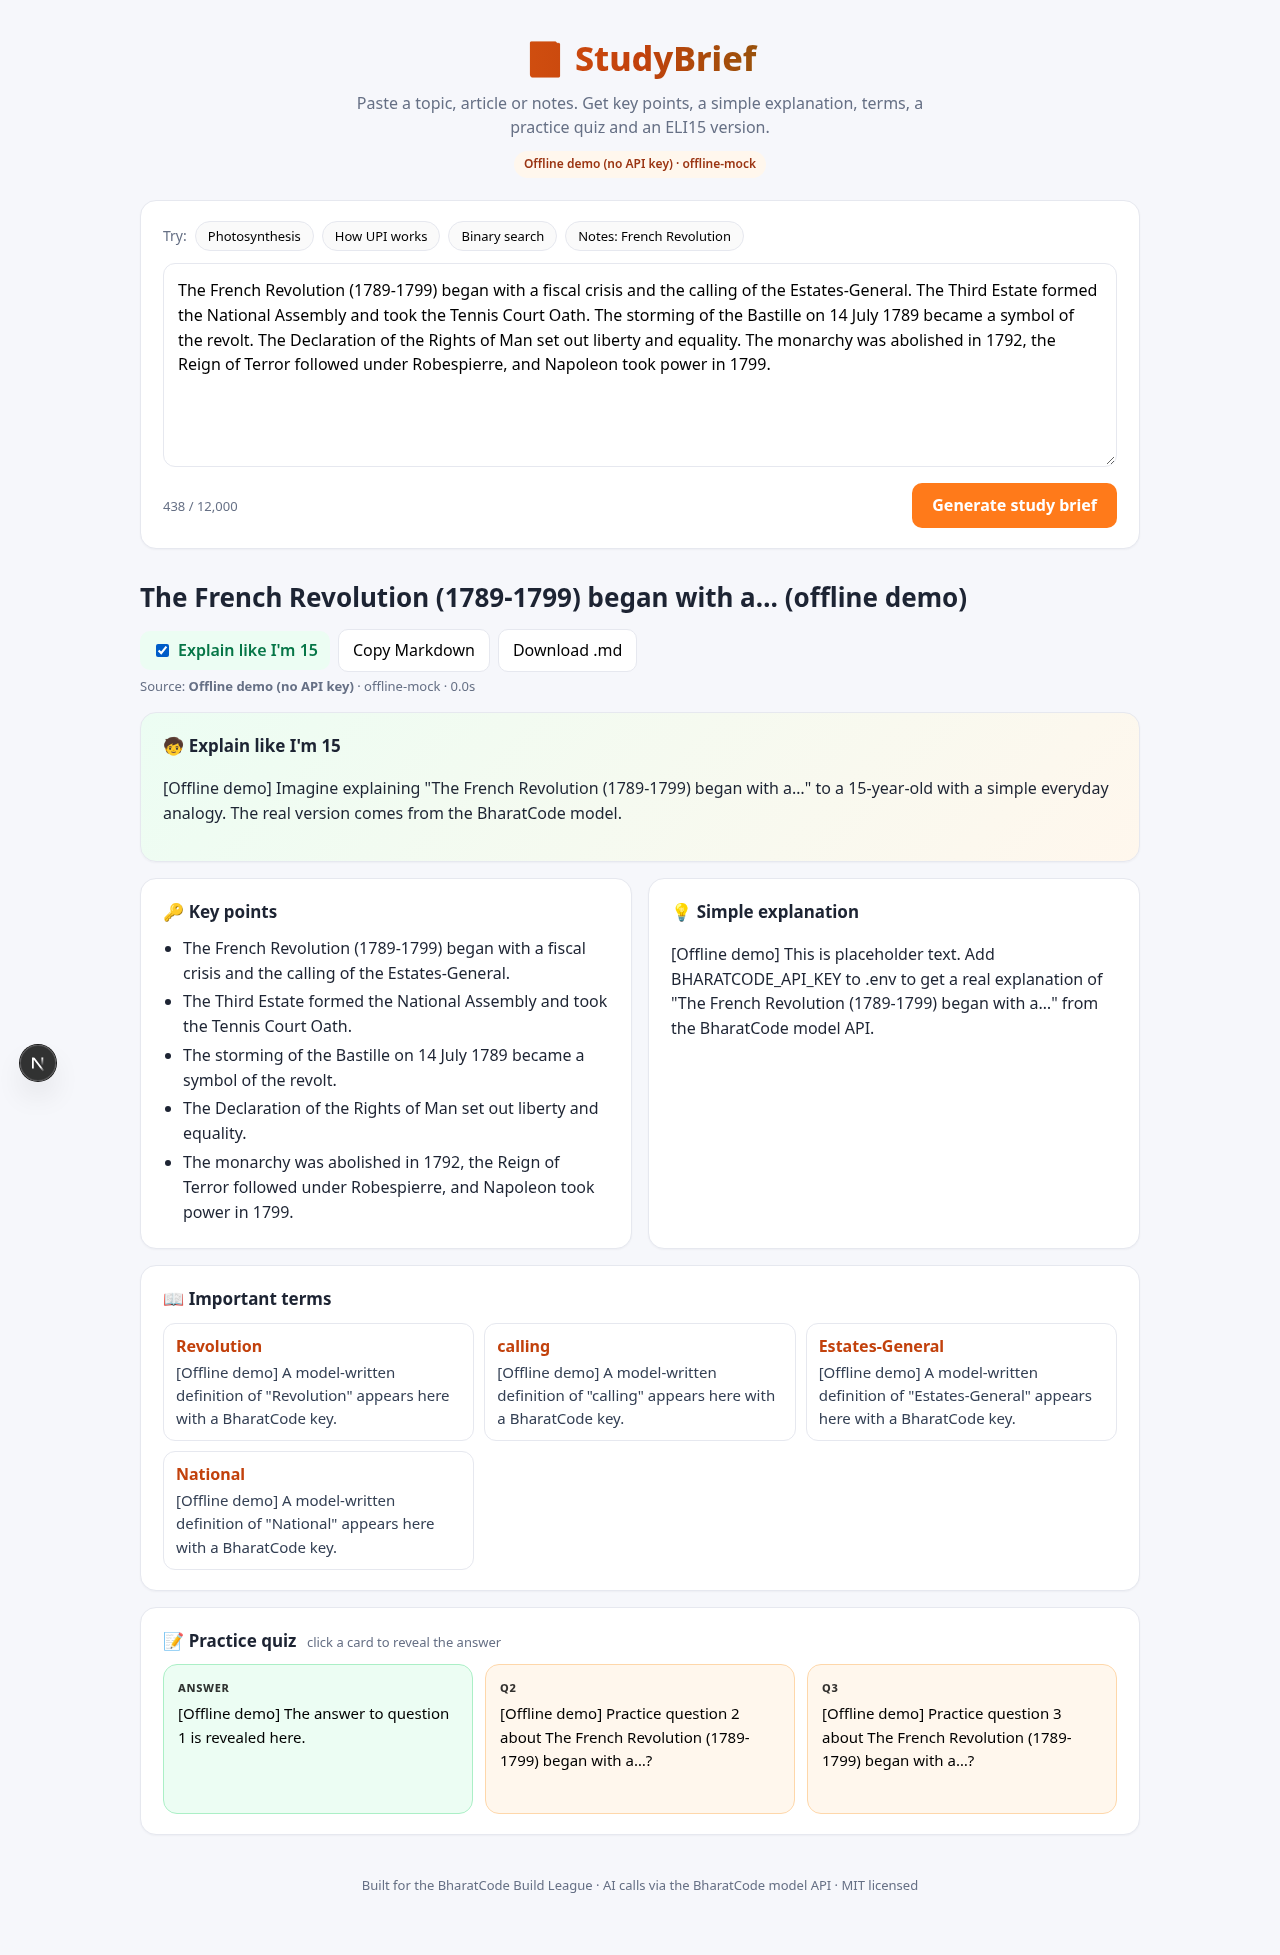
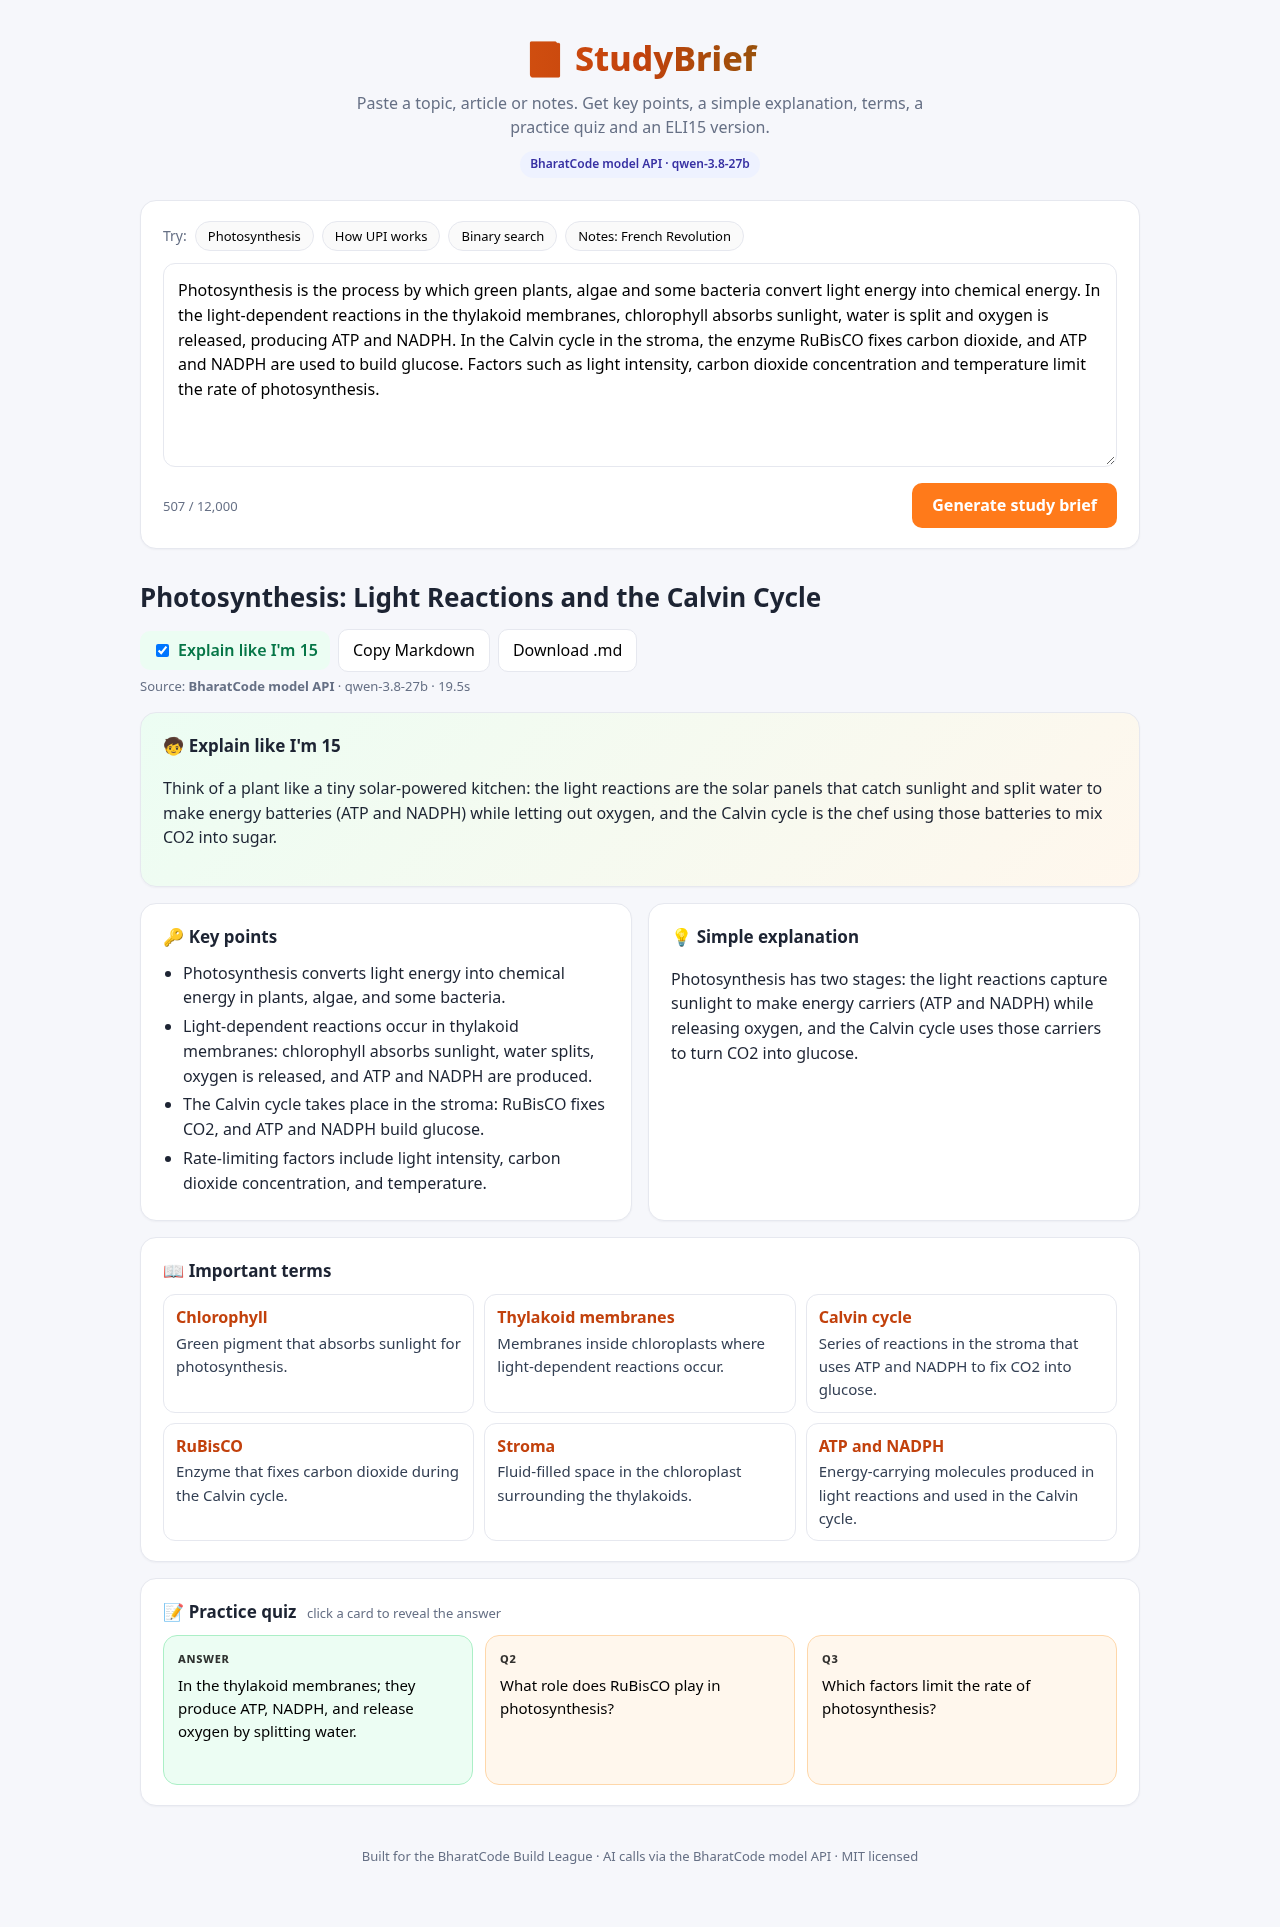
Add per-IP rate limit + concurrency guard, Vercel deploy docs, real BharatCode screenshots

diff --git a/tests/ratelimit.test.ts b/tests/ratelimit.test.ts
@@ -1,0 +1,38 @@
+import { beforeEach, describe, expect, it, vi } from "vitest";
+import { _resetRateLimit, checkRate, clientIp, release, tryAcquire } from "@/lib/ratelimit";
+
+vi.mock("@/lib/llm", () => ({
+  generateBrief: vi.fn(async () => ({ title: "t" })),
+  resolveProvider: () => null,
+  LlmError: class extends Error { status = 502; },
+}));
+
+describe("rate limit", () => {
+  beforeEach(() => _resetRateLimit());
+  it("allows 8 per window then blocks, then recovers", () => {
+    for (let i = 0; i < 8; i++) expect(checkRate("1.1.1.1", 1000).ok).toBe(true);
+    const r = checkRate("1.1.1.1", 1000);
+    expect(r.ok).toBe(false);
+    expect(checkRate("2.2.2.2", 1000).ok).toBe(true);
+    expect(checkRate("1.1.1.1", 1000 + 10 * 60 * 1000).ok).toBe(true);
+  });
+  it("reads first x-forwarded-for hop", () => {
+    expect(clientIp(new Request("http://x", { headers: { "x-forwarded-for": "9.9.9.9, 10.0.0.1" } }))).toBe("9.9.9.9");
+    expect(clientIp(new Request("http://x"))).toBe("unknown");
+  });
+  it("concurrency guard", () => {
+    expect(tryAcquire(1)).toBe(true);
+    expect(tryAcquire(1)).toBe(false);
+    release();
+    expect(tryAcquire(1)).toBe(true);
+  });
+  it("route returns 429 with friendly message after limit", async () => {
+    const { POST } = await import("@/app/api/brief/route");
+    const mk = () => new Request("http://x/api/brief", { method: "POST", headers: { "x-forwarded-for": "5.5.5.5", "content-type": "application/json" }, body: "{}" });
+    for (let i = 0; i < 8; i++) expect((await POST(mk())).status).not.toBe(429);
+    const res = await POST(mk());
+    expect(res.status).toBe(429);
+    expect(res.headers.get("Retry-After")).toBeTruthy();
+    expect((await res.json()).error).toMatch(/wait/);
+  });
+});

diff --git a/lib/ratelimit.ts b/lib/ratelimit.ts
@@ -1,0 +1,45 @@
+/**
+ * Simple in-memory, per-IP sliding-window rate limit plus a global concurrency guard.
+ * Serverless-friendly: no external store; state lives per warm instance (best effort on Vercel).
+ */
+export const RATE_LIMIT = Number(process.env.STUDYBRIEF_RATE_LIMIT ?? 8);
+export const RATE_WINDOW_MS = Number(process.env.STUDYBRIEF_RATE_WINDOW_MS ?? 10 * 60 * 1000);
+export const MAX_CONCURRENT = Number(process.env.STUDYBRIEF_MAX_CONCURRENT ?? 4);
+const MAX_TRACKED_IPS = 5000;
+
+const hits = new Map<string, number[]>();
+let inFlight = 0;
+
+export function clientIp(req: Request): string {
+  const xff = req.headers.get("x-forwarded-for");
+  if (xff) return xff.split(",")[0].trim() || "unknown";
+  return req.headers.get("x-real-ip")?.trim() || "unknown";
+}
+
+export function checkRate(ip: string, now = Date.now(), limit = RATE_LIMIT, windowMs = RATE_WINDOW_MS) {
+  const recent = (hits.get(ip) ?? []).filter((t) => now - t < windowMs);
+  if (recent.length >= limit) {
+    hits.set(ip, recent);
+    return { ok: false as const, retryAfterSec: Math.max(1, Math.ceil((recent[0] + windowMs - now) / 1000)) };
+  }
+  recent.push(now);
+  hits.set(ip, recent);
+  if (hits.size > MAX_TRACKED_IPS) {
+    for (const [k, v] of hits) if (!v.length || now - v[v.length - 1] >= windowMs) hits.delete(k);
+    if (hits.size > MAX_TRACKED_IPS) hits.delete(hits.keys().next().value as string);
+  }
+  return { ok: true as const, remaining: limit - recent.length };
+}
+
+export function tryAcquire(max = MAX_CONCURRENT): boolean {
+  if (inFlight >= max) return false;
+  inFlight++;
+  return true;
+}
+export function release() {
+  inFlight = Math.max(0, inFlight - 1);
+}
+export function _resetRateLimit() {
+  hits.clear();
+  inFlight = 0;
+}

diff --git a/app/api/brief/route.ts b/app/api/brief/route.ts
@@ -1,6 +1,7 @@
 import { NextResponse } from "next/server";
 import { RequestSchema } from "@/lib/schema";
 import { generateBrief, LlmError, resolveProvider } from "@/lib/llm";
+import { checkRate, clientIp, release, tryAcquire } from "@/lib/ratelimit";
 
 export const runtime = "nodejs";
 export const maxDuration = 120;
@@ -11,6 +12,14 @@ export async function GET() {
 }
 
 export async function POST(req: Request) {
+  const rate = checkRate(clientIp(req));
+  if (!rate.ok) {
+    const mins = Math.ceil(rate.retryAfterSec / 60);
+    return NextResponse.json(
+      { error: `You've made a lot of briefs in a short time. Please wait about ${mins} minute${mins === 1 ? "" : "s"} and try again.` },
+      { status: 429, headers: { "Retry-After": String(rate.retryAfterSec) } },
+    );
+  }
   let body: unknown;
   try {
     body = await req.json();
@@ -19,11 +28,19 @@ export async function POST(req: Request) {
   }
   const parsed = RequestSchema.safeParse(body);
   if (!parsed.success) return NextResponse.json({ error: parsed.error.issues[0].message }, { status: 400 });
+  if (!tryAcquire()) {
+    return NextResponse.json(
+      { error: "StudyBrief is busy with other students right now. Please try again in a few seconds." },
+      { status: 429, headers: { "Retry-After": "10" } },
+    );
+  }
   try {
     return NextResponse.json(await generateBrief(parsed.data.text));
   } catch (e) {
     const status = e instanceof LlmError ? e.status : 500;
     console.error("[studybrief]", e);
     return NextResponse.json({ error: e instanceof Error ? e.message : "Unexpected error" }, { status });
+  } finally {
+    release();
   }
 }

diff --git a/README.md b/README.md
@@ -53,6 +53,21 @@ npm run dev             # http://localhost:3200 (PORT=xxxx to change)
 | `BHARATCODE_BASE_URL` | `https://bharatcode.ai/api/model/v1` | OpenAI-compatible base URL |
 | `BHARATCODE_MODEL` | `qwen-3.8-27b` | `deepseek-v4.1-flash` needs Pro |
 | `STUDYBRIEF_MODE` | – | `mock` forces the offline demo |
+| `STUDYBRIEF_RATE_LIMIT` | `8` | Briefs per IP per window |
+| `STUDYBRIEF_RATE_WINDOW_MS` | `600000` | Rate-limit window (10 min) |
+| `STUDYBRIEF_MAX_CONCURRENT` | `4` | Max in-flight generations per instance |
+
+### Deploying to Vercel
+
+1. Import the GitHub repo at [vercel.com/new](https://vercel.com/new) (framework: Next.js, defaults are fine).
+2. In **Project → Settings → Environment Variables**, add `BHARATCODE_API_KEY` (mark it *Sensitive*) for Production and Preview. Optionally set `BHARATCODE_MODEL`.
+3. Deploy (or redeploy after adding the variable). The header pill shows **BharatCode model API** when the key is picked up.
+
+Or with the CLI: `vercel env add BHARATCODE_API_KEY production` then `vercel --prod`. Never commit `.env`; it is git-ignored.
+
+### Abuse protection
+
+`POST /api/brief` applies an in-memory per-IP limit (first `x-forwarded-for` hop, 8 requests / 10 min) and a global concurrency guard. Over the limit it returns HTTP 429 with a `Retry-After` header and a friendly message shown in the UI. State is per warm serverless instance, so it is best-effort, which is fine for a demo; use a shared store (e.g. Upstash Redis) for strict limits.
 
 ### How the API call works
 
@@ -76,7 +91,7 @@ With no key, StudyBrief returns a deterministic placeholder brief. It is labelle
 npm run lint && npm run typecheck && npm test && npm run build
 ```
 
-Tests (`tests/parse.test.ts`, vitest) cover JSON extraction, schema validation, input limits, the mock, Markdown export and provider selection.
+Tests (`tests/parse.test.ts`, `tests/ratelimit.test.ts`, vitest) cover rate limiting, 429 responses, JSON extraction, schema validation, input limits, the mock, Markdown export and provider selection.
 
 ## Demo flow (≈90 s)
 
